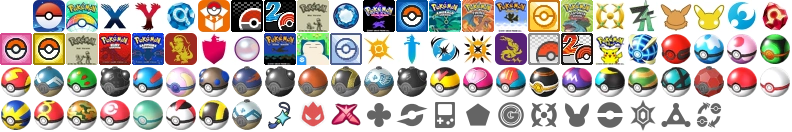
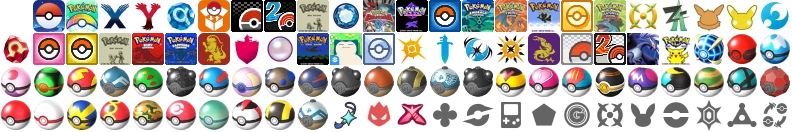
Add Colosseum and XD to supported games

diff --git a/images/iconsheet.css b/images/iconsheet.css
@@ -1,1 +1,1 @@
-.icon {background-image: var(--link-iconsheet);background-repeat: no-repeat;display: inline-block;width:32px;height:32px}.icon[data-icon^="ball/"]{scale:.6}.icon[data-icon^="game/"]{border-radius:calc(.5 * var(--border-radius))}.icon[data-icon="game/go"]{background-position: -33px -0px}.icon[data-icon="game/home"]{background-position: -66px -0px}.icon[data-icon="game/x"]{background-position: -99px -0px}.icon[data-icon="game/y"]{background-position: -132px -0px}.icon[data-icon="game/alphasapphire"]{background-position: -165px -0px}.icon[data-icon="game/bank"]{background-position: -198px -0px}.icon[data-icon="game/black"]{background-position: -231px -0px}.icon[data-icon="game/black2"]{background-position: -264px -0px}.icon[data-icon="game/blue"]{background-position: -297px -0px}.icon[data-icon="game/brilliantdiamond"]{background-position: -330px -0px}.icon[data-icon="game/crystal"]{background-position: -363px -0px}.icon[data-icon="game/diamond"]{background-position: -396px -0px}.icon[data-icon="game/emerald"]{background-position: -429px -0px}.icon[data-icon="game/firered"]{background-position: -462px -0px}.icon[data-icon="game/gold"]{background-position: -495px -0px}.icon[data-icon="game/heartgold"]{background-position: -528px -0px}.icon[data-icon="game/leafgreen"]{background-position: -561px -0px}.icon[data-icon="game/legendsarceus"]{background-position: -594px -0px}.icon[data-icon="game/legendsza"]{background-position: -627px -0px}.icon[data-icon="game/letsgoeevee"]{background-position: -660px -0px}.icon[data-icon="game/letsgopikachu"]{background-position: -693px -0px}.icon[data-icon="game/moon"]{background-position: -726px -0px}.icon[data-icon="game/omegaruby"]{background-position: -759px -0px}.icon[data-icon="game/pearl"]{background-position: -0px -33px}.icon[data-icon="game/platinum"]{background-position: -33px -33px}.icon[data-icon="game/red"]{background-position: -66px -33px}.icon[data-icon="game/ruby"]{background-position: -99px -33px}.icon[data-icon="game/sapphire"]{background-position: -132px -33px}.icon[data-icon="game/scarlet"]{background-position: -165px -33px}.icon[data-icon="game/shield"]{background-position: -198px -33px}.icon[data-icon="game/shiningpearl"]{background-position: -231px -33px}.icon[data-icon="game/silver"]{background-position: -264px -33px}.icon[data-icon="game/sleep"]{background-position: -297px -33px}.icon[data-icon="game/soulsilver"]{background-position: -330px -33px}.icon[data-icon="game/sun"]{background-position: -363px -33px}.icon[data-icon="game/sword"]{background-position: -396px -33px}.icon[data-icon="game/ultramoon"]{background-position: -429px -33px}.icon[data-icon="game/ultrasun"]{background-position: -462px -33px}.icon[data-icon="game/violet"]{background-position: -495px -33px}.icon[data-icon="game/white"]{background-position: -528px -33px}.icon[data-icon="game/white2"]{background-position: -561px -33px}.icon[data-icon="game/yellow"]{background-position: -594px -33px}.icon[data-icon="ball/beast"]{background-position: -627px -33px}.icon[data-icon="ball/cherish"]{background-position: -660px -33px}.icon[data-icon="ball/dive"]{background-position: -693px -33px}.icon[data-icon="ball/dream"]{background-position: -726px -33px}.icon[data-icon="ball/dusk"]{background-position: -759px -33px}.icon[data-icon="ball/fast"]{background-position: -0px -66px}.icon[data-icon="ball/feather"]{background-position: -33px -66px}.icon[data-icon="ball/friend"]{background-position: -66px -66px}.icon[data-icon="ball/gigaton"]{background-position: -99px -66px}.icon[data-icon="ball/great"]{background-position: -132px -66px}.icon[data-icon="ball/heal"]{background-position: -165px -66px}.icon[data-icon="ball/heavy"]{background-position: -198px -66px}.icon[data-icon="ball/hisuian-great"]{background-position: -231px -66px}.icon[data-icon="ball/hisuian-heavy"]{background-position: -264px -66px}.icon[data-icon="ball/hisuian-poke"]{background-position: -297px -66px}.icon[data-icon="ball/hisuian-ultra"]{background-position: -330px -66px}.icon[data-icon="ball/jet"]{background-position: -363px -66px}.icon[data-icon="ball/leaden"]{background-position: -396px -66px}.icon[data-icon="ball/level"]{background-position: -429px -66px}.icon[data-icon="ball/love"]{background-position: -462px -66px}.icon[data-icon="ball/lure"]{background-position: -495px -66px}.icon[data-icon="ball/luxury"]{background-position: -528px -66px}.icon[data-icon="ball/master"]{background-position: -561px -66px}.icon[data-icon="ball/moon"]{background-position: -594px -66px}.icon[data-icon="ball/nest"]{background-position: -627px -66px}.icon[data-icon="ball/net"]{background-position: -660px -66px}.icon[data-icon="ball/origin"]{background-position: -693px -66px}.icon[data-icon="ball/poke"]{background-position: -726px -66px}.icon[data-icon="ball/premier"]{background-position: -759px -66px}.icon[data-icon="ball/quick"]{background-position: -0px -99px}.icon[data-icon="ball/repeat"]{background-position: -33px -99px}.icon[data-icon="ball/safari"]{background-position: -66px -99px}.icon[data-icon="ball/sport"]{background-position: -99px -99px}.icon[data-icon="ball/strange"]{background-position: -132px -99px}.icon[data-icon="ball/timer"]{background-position: -165px -99px}.icon[data-icon="ball/ultra"]{background-position: -198px -99px}.icon[data-icon="ball/wing"]{background-position: -231px -99px}.icon[data-icon="key/shiny-charm"]{background-position: -264px -99px}.icon[data-icon="gene/alpha"]{background-position: -297px -99px}.icon[data-icon="gene/gigantamax"]{background-position: -330px -99px}.icon[data-icon="origin-mark/alola"]{background-position: -363px -99px}.icon[data-icon="origin-mark/galar"]{background-position: -396px -99px}.icon[data-icon="origin-mark/game-boy"]{background-position: -429px -99px}.icon[data-icon="origin-mark/gen6"]{background-position: -462px -99px}.icon[data-icon="origin-mark/go"]{background-position: -495px -99px}.icon[data-icon="origin-mark/hisui"]{background-position: -528px -99px}.icon[data-icon="origin-mark/lets-go"]{background-position: -561px -99px}.icon[data-icon="origin-mark/old"]{background-position: -594px -99px}.icon[data-icon="origin-mark/paldea"]{background-position: -627px -99px}.icon[data-icon="origin-mark/sinnoh-gen8"]{background-position: -660px -99px}.icon[data-icon="other/traded"]{background-position: -693px -99px}
+.icon {background-image: var(--link-iconsheet);background-repeat: no-repeat;display: inline-block;width:32px;height:32px}.icon[data-icon^="ball/"]{scale:.6}.icon[data-icon^="game/"]{border-radius:calc(.5 * var(--border-radius))}.icon[data-icon="game/go"]{background-position: -33px -0px}.icon[data-icon="game/home"]{background-position: -66px -0px}.icon[data-icon="game/x"]{background-position: -99px -0px}.icon[data-icon="game/y"]{background-position: -132px -0px}.icon[data-icon="game/alphasapphire"]{background-position: -165px -0px}.icon[data-icon="game/bank"]{background-position: -198px -0px}.icon[data-icon="game/black"]{background-position: -231px -0px}.icon[data-icon="game/black2"]{background-position: -264px -0px}.icon[data-icon="game/blue"]{background-position: -297px -0px}.icon[data-icon="game/brilliantdiamond"]{background-position: -330px -0px}.icon[data-icon="game/colosseum"]{background-position: -363px -0px}.icon[data-icon="game/crystal"]{background-position: -396px -0px}.icon[data-icon="game/diamond"]{background-position: -429px -0px}.icon[data-icon="game/emerald"]{background-position: -462px -0px}.icon[data-icon="game/firered"]{background-position: -495px -0px}.icon[data-icon="game/gold"]{background-position: -528px -0px}.icon[data-icon="game/heartgold"]{background-position: -561px -0px}.icon[data-icon="game/leafgreen"]{background-position: -594px -0px}.icon[data-icon="game/legendsarceus"]{background-position: -627px -0px}.icon[data-icon="game/legendsza"]{background-position: -660px -0px}.icon[data-icon="game/letsgoeevee"]{background-position: -693px -0px}.icon[data-icon="game/letsgopikachu"]{background-position: -726px -0px}.icon[data-icon="game/moon"]{background-position: -759px -0px}.icon[data-icon="game/omegaruby"]{background-position: -0px -33px}.icon[data-icon="game/pearl"]{background-position: -33px -33px}.icon[data-icon="game/platinum"]{background-position: -66px -33px}.icon[data-icon="game/red"]{background-position: -99px -33px}.icon[data-icon="game/ruby"]{background-position: -132px -33px}.icon[data-icon="game/sapphire"]{background-position: -165px -33px}.icon[data-icon="game/scarlet"]{background-position: -198px -33px}.icon[data-icon="game/shield"]{background-position: -231px -33px}.icon[data-icon="game/shiningpearl"]{background-position: -264px -33px}.icon[data-icon="game/silver"]{background-position: -297px -33px}.icon[data-icon="game/sleep"]{background-position: -330px -33px}.icon[data-icon="game/soulsilver"]{background-position: -363px -33px}.icon[data-icon="game/sun"]{background-position: -396px -33px}.icon[data-icon="game/sword"]{background-position: -429px -33px}.icon[data-icon="game/ultramoon"]{background-position: -462px -33px}.icon[data-icon="game/ultrasun"]{background-position: -495px -33px}.icon[data-icon="game/violet"]{background-position: -528px -33px}.icon[data-icon="game/white"]{background-position: -561px -33px}.icon[data-icon="game/white2"]{background-position: -594px -33px}.icon[data-icon="game/xd"]{background-position: -627px -33px}.icon[data-icon="game/yellow"]{background-position: -660px -33px}.icon[data-icon="ball/beast"]{background-position: -693px -33px}.icon[data-icon="ball/cherish"]{background-position: -726px -33px}.icon[data-icon="ball/dive"]{background-position: -759px -33px}.icon[data-icon="ball/dream"]{background-position: -0px -66px}.icon[data-icon="ball/dusk"]{background-position: -33px -66px}.icon[data-icon="ball/fast"]{background-position: -66px -66px}.icon[data-icon="ball/feather"]{background-position: -99px -66px}.icon[data-icon="ball/friend"]{background-position: -132px -66px}.icon[data-icon="ball/gigaton"]{background-position: -165px -66px}.icon[data-icon="ball/great"]{background-position: -198px -66px}.icon[data-icon="ball/heal"]{background-position: -231px -66px}.icon[data-icon="ball/heavy"]{background-position: -264px -66px}.icon[data-icon="ball/hisuian-great"]{background-position: -297px -66px}.icon[data-icon="ball/hisuian-heavy"]{background-position: -330px -66px}.icon[data-icon="ball/hisuian-poke"]{background-position: -363px -66px}.icon[data-icon="ball/hisuian-ultra"]{background-position: -396px -66px}.icon[data-icon="ball/jet"]{background-position: -429px -66px}.icon[data-icon="ball/leaden"]{background-position: -462px -66px}.icon[data-icon="ball/level"]{background-position: -495px -66px}.icon[data-icon="ball/love"]{background-position: -528px -66px}.icon[data-icon="ball/lure"]{background-position: -561px -66px}.icon[data-icon="ball/luxury"]{background-position: -594px -66px}.icon[data-icon="ball/master"]{background-position: -627px -66px}.icon[data-icon="ball/moon"]{background-position: -660px -66px}.icon[data-icon="ball/nest"]{background-position: -693px -66px}.icon[data-icon="ball/net"]{background-position: -726px -66px}.icon[data-icon="ball/origin"]{background-position: -759px -66px}.icon[data-icon="ball/poke"]{background-position: -0px -99px}.icon[data-icon="ball/premier"]{background-position: -33px -99px}.icon[data-icon="ball/quick"]{background-position: -66px -99px}.icon[data-icon="ball/repeat"]{background-position: -99px -99px}.icon[data-icon="ball/safari"]{background-position: -132px -99px}.icon[data-icon="ball/sport"]{background-position: -165px -99px}.icon[data-icon="ball/strange"]{background-position: -198px -99px}.icon[data-icon="ball/timer"]{background-position: -231px -99px}.icon[data-icon="ball/ultra"]{background-position: -264px -99px}.icon[data-icon="ball/wing"]{background-position: -297px -99px}.icon[data-icon="key/shiny-charm"]{background-position: -330px -99px}.icon[data-icon="gene/alpha"]{background-position: -363px -99px}.icon[data-icon="gene/gigantamax"]{background-position: -396px -99px}.icon[data-icon="origin-mark/alola"]{background-position: -429px -99px}.icon[data-icon="origin-mark/galar"]{background-position: -462px -99px}.icon[data-icon="origin-mark/game-boy"]{background-position: -495px -99px}.icon[data-icon="origin-mark/gen6"]{background-position: -528px -99px}.icon[data-icon="origin-mark/go"]{background-position: -561px -99px}.icon[data-icon="origin-mark/hisui"]{background-position: -594px -99px}.icon[data-icon="origin-mark/lets-go"]{background-position: -627px -99px}.icon[data-icon="origin-mark/old"]{background-position: -660px -99px}.icon[data-icon="origin-mark/paldea"]{background-position: -693px -99px}.icon[data-icon="origin-mark/sinnoh-gen8"]{background-position: -726px -99px}.icon[data-icon="other/traded"]{background-position: -759px -99px}

diff --git a/src/modules/Shiny.ts b/src/modules/Shiny.ts
@@ -18,8 +18,8 @@ export type Methode = {
 
 const allGames = Pokemon.jeux;
 const allMethodes: Methode[] = [
-  { id: 'wild', jeux: allGames, mine: true, charm: true },
-  { id: 'egg', jeux: allGames.filter(g => ![1, 7.1].includes(g.gen) && g.id !== 'za'), mine: true, charm: true },
+  { id: 'wild', jeux: allGames.filter(g => g.gen !== 3.1), mine: true, charm: true },
+  { id: 'egg', jeux: allGames.filter(g => ![1, 3.1, 7.1].includes(g.gen) && g.id !== 'za'), mine: true, charm: true },
   { id: 'masuda', jeux: allGames.filter(g => g.gen >= 4 && g.gen != 7.1 && g.gen != 8.1 && g.id != 'za'), mine: true, charm: true },
   { id: 'fixedencounter', jeux: allGames.filter(g => g.id === 'sv'), mine: true, charm: false },
   { id: 'hyperspace', jeux: allGames.filter(g => g.id === 'za'), mine: true, charm: true },
@@ -37,11 +37,13 @@ const allMethodes: Methode[] = [
   { id: 'massoutbreak', jeux: allGames.filter(g => g.id == 'pla' || g.id == 'sv'), mine: true, charm: true },
   { id: 'massivemassoutbreak', jeux: allGames.filter(g => g.id == 'pla'), mine: true, charm: true },
   { id: 'fossil', jeux: allGames.filter(g => g.id === 'za'), mine: true, charm: false },
+  { id: 'snag', jeux: allGames.filter(g => g.id === 'colosseum'), mine: true, charm: false },
+  { id: 'found', jeux: allGames.filter(g => g.id === 'xd'), mine: true, charm: false },
   
   { id: 'massoutbreakevent', jeux: allGames.filter(g => g.id == 'sv'), mine: true, charm: true },
   { id: 'wildevent', jeux: allGames.filter(g => g.id === 'go'), mine: true, charm: false },
   { id: 'wildalwaysshiny', jeux: allGames.filter(g => ['gs', 'hgss', 'bw2', 'pla', 'za'].includes(g.id)), mine: true, charm: false },
-  { id: 'event', jeux: allGames.filter(g => g.gen > 1), mine: false, charm: false },
+  { id: 'event', jeux: allGames.filter(g => g.gen > 1 && g.gen !== 3.1), mine: false, charm: false },
 
   { id: 'glitch', jeux: allGames.filter(g => [1, 2].includes(g.gen)), mine: true, charm: false },
   { id: 'hack', jeux: allGames, mine: true, charm: false },

diff --git a/images/iconsheet.html b/images/iconsheet.html
@@ -97,6 +97,9 @@
     <div class="icon" data-icon="game/brilliantdiamond"></div>
     <div>game/brilliantdiamond</div>
   </div>  <div class="container">
+    <div class="icon" data-icon="game/colosseum"></div>
+    <div>game/colosseum</div>
+  </div>  <div class="container">
     <div class="icon" data-icon="game/crystal"></div>
     <div>game/crystal</div>
   </div>  <div class="container">
@@ -189,6 +192,9 @@
   </div>  <div class="container">
     <div class="icon" data-icon="game/white2"></div>
     <div>game/white2</div>
+  </div>  <div class="container">
+    <div class="icon" data-icon="game/xd"></div>
+    <div>game/xd</div>
   </div>  <div class="container">
     <div class="icon" data-icon="game/yellow"></div>
     <div>game/yellow</div>

diff --git a/src/modules/Pokemon.ts b/src/modules/Pokemon.ts
@@ -27,6 +27,8 @@ const allGames: Jeu[] = [
   { uid: 'emerald', gen: 3, id: 'emerald', hasCharm: false },
   { uid: 'firered', gen: 3, id: 'frlg', hasCharm: false },
   { uid: 'leafgreen', gen: 3, id: 'frlg', hasCharm: false },
+  { uid: 'colosseum', gen: 3.1, id: 'colosseum', hasCharm: false },
+  { uid: 'xd', gen: 3.1, id: 'xd', hasCharm: false },
   { uid: 'diamond', gen: 4, id: 'dp', hasCharm: false },
   { uid: 'pearl', gen: 4, id: 'dp', hasCharm: false },
   { uid: 'platinum', gen: 4, id: 'platinum', hasCharm: false },

diff --git a/changelog/en.html b/changelog/en.html
@@ -1,3 +1,9 @@
+<h3 class="title-medium"><time data-datetime="2026/04/01" data-format='{"day":"numeric","month":"short","year":"numeric"}'></time></h3>
+
+<ul class="new">
+  <li class="body-large">Added Pokémon Colosseum and Pokémon XD to the list of supported games.</li>
+</ul>
+
 <h3 class="title-medium"><time data-datetime="2025/12/23" data-format='{"day":"numeric","month":"short","year":"numeric"}'></time></h3>
 
 <ul class="change">

diff --git a/changelog/fr.html b/changelog/fr.html
@@ -1,3 +1,9 @@
+<h3 class="title-medium"><time data-datetime="2026/04/01" data-format='{"day":"numeric","month":"short","year":"numeric"}'></time></h3>
+
+<ul class="new">
+  <li class="body-large">Ajoute Pokémon Colosseum et Pokémon XD à la liste des jeux.</li>
+</ul>
+
 <h3 class="title-medium"><time data-datetime="2025/12/23" data-format='{"day":"numeric","month":"short","year":"numeric"}'></time></h3>
 
 <ul class="change">
